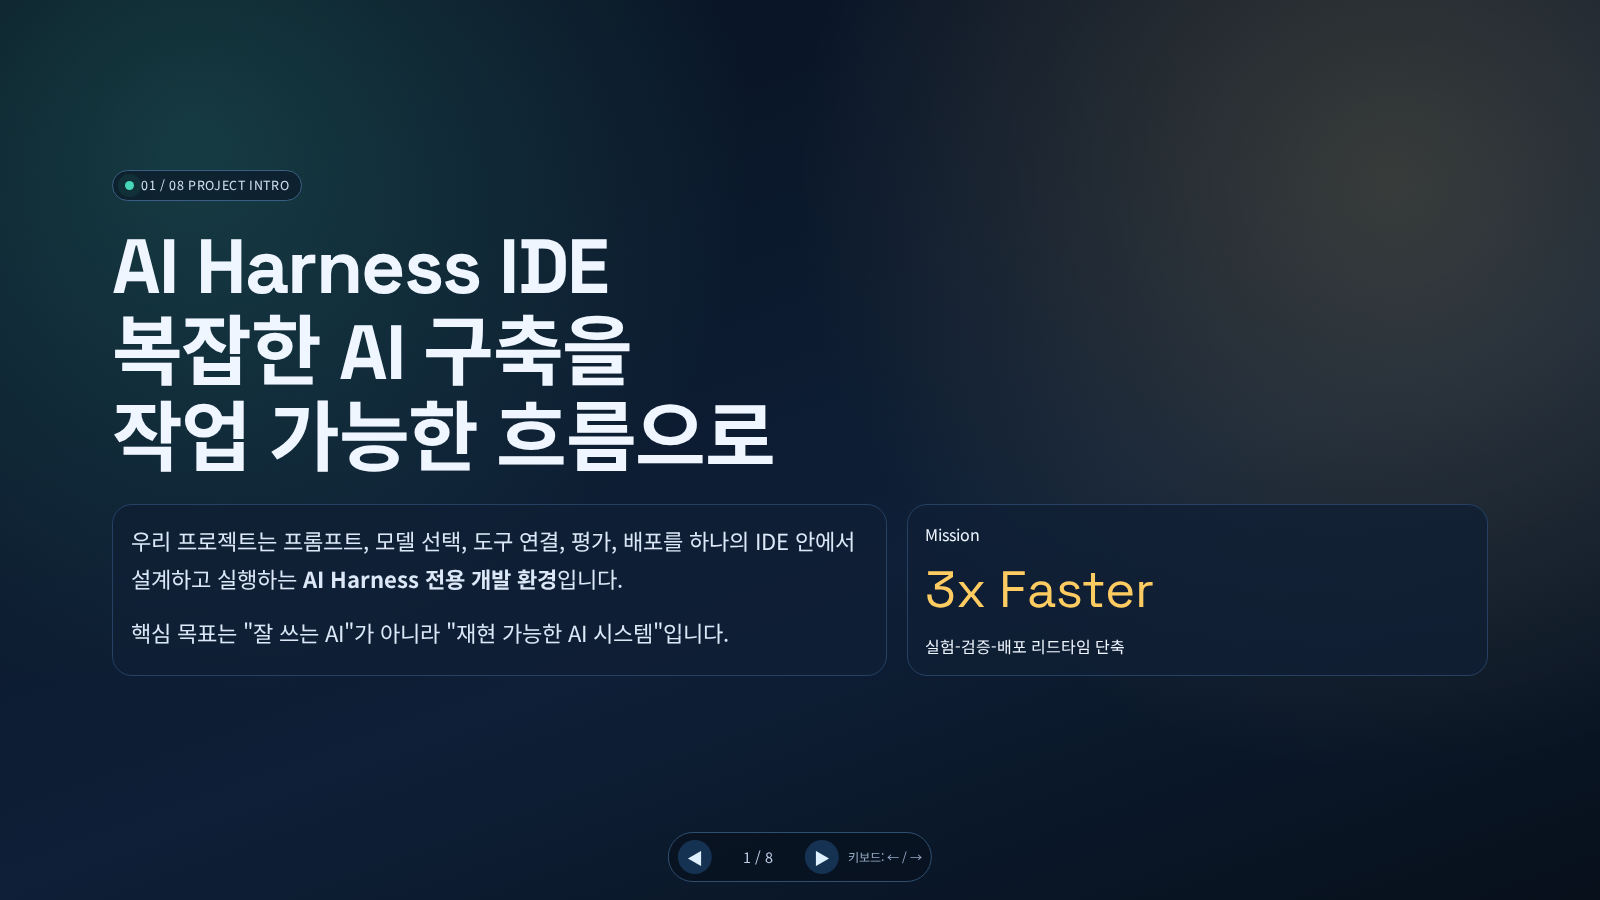
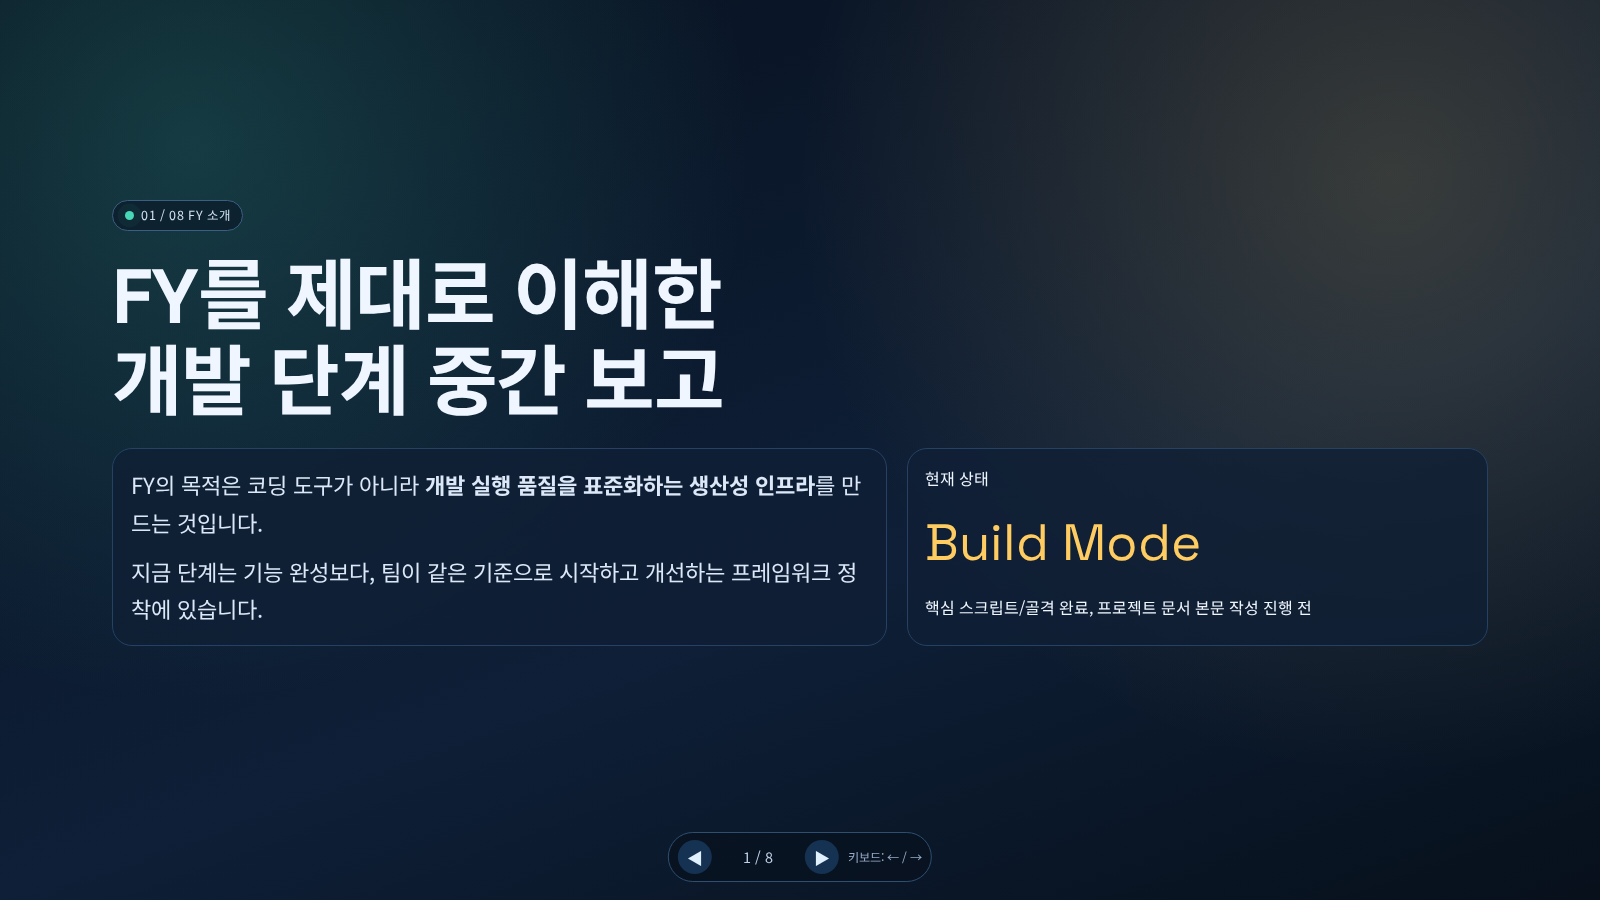
Update ai-harness IDE intro slide and generated index

Changed region(s): [[0.0625, 0.1867, 0.5312, 0.7156], [0.5625, 0.5289, 0.8125, 0.6844], [0.5625, 0.7156, 0.7188, 0.7467]]

diff --git a/public/slides/ai-harness-ide-intro.html b/public/slides/ai-harness-ide-intro.html
@@ -3,7 +3,7 @@
   <head>
     <meta charset="UTF-8" />
     <meta name="viewport" content="width=device-width, initial-scale=1.0" />
-    <title>AI Harness IDE 프로젝트 소개</title>
+    <title>FY 개발 단계 중간 보고</title>
     <link rel="preconnect" href="https://fonts.googleapis.com" />
     <link rel="preconnect" href="https://fonts.gstatic.com" crossorigin />
     <link
@@ -291,156 +291,155 @@
     <main id="deck" class="deck">
       <section class="slide">
         <div class="meta">
-          <span class="tag"><span class="pulse"></span> 01 / 08 PROJECT INTRO</span>
+          <span class="tag"><span class="pulse"></span> 01 / 08 FY 소개</span>
         </div>
-        <h1>AI Harness IDE<br />복잡한 AI 구축을<br />작업 가능한 흐름으로</h1>
+        <h1>FY를 제대로 이해한<br />개발 단계 중간 보고</h1>
         <div class="hero">
           <div class="hero-box">
             <p class="lead">
-              우리 프로젝트는 프롬프트, 모델 선택, 도구 연결, 평가, 배포를 하나의 IDE 안에서
-              설계하고 실행하는 <strong>AI Harness 전용 개발 환경</strong>입니다.
+              FY의 목적은 코딩 도구가 아니라 <strong>개발 실행 품질을 표준화하는 생산성 인프라</strong>를 만드는 것입니다.
             </p>
-            <p class="lead">핵심 목표는 "잘 쓰는 AI"가 아니라 "재현 가능한 AI 시스템"입니다.</p>
+            <p class="lead">지금 단계는 기능 완성보다, 팀이 같은 기준으로 시작하고 개선하는 프레임워크 정착에 있습니다.</p>
           </div>
           <div class="hero-box">
-            <p>Mission</p>
-            <p class="kpi">3x Faster</p>
-            <p>실험-검증-배포 리드타임 단축</p>
+            <p>현재 상태</p>
+            <p class="kpi">Build Mode</p>
+            <p>핵심 스크립트/골격 완료, 프로젝트 문서 본문 작성 진행 전</p>
           </div>
         </div>
       </section>
 
       <section class="slide">
         <div class="meta">
-          <span class="tag">02 / 08 PROBLEM</span>
+          <span class="tag">02 / 08 핵심 목적</span>
         </div>
-        <h2>왜 지금 필요한가</h2>
+        <h2>FY 핵심 목적 4가지</h2>
         <ul>
-          <li>AI 앱 개발은 코드, 프롬프트, 벡터DB, 에이전트 로직이 분산되어 관리됩니다.</li>
-          <li>성능 저하가 생겨도 어떤 변경이 원인인지 추적하기 어렵습니다.</li>
-          <li>팀 협업 시 실험 기록이 남지 않아 동일한 실패를 반복합니다.</li>
-          <li>결과적으로 PoC는 빠르지만 프로덕션 전환은 느립니다.</li>
+          <li><strong>실행 표준화:</strong> `setup`, `doctor`, `launch/exec`로 시작/점검/실행 절차 통일</li>
+          <li><strong>문서 기반 개발:</strong> 코드보다 문서 컨텍스트를 먼저 로딩해 의사결정 일관성 확보</li>
+          <li><strong>스킬 온디맨드 확장:</strong> 필요한 스킬만 설치해 프로젝트 맞춤형으로 확장</li>
+          <li><strong>병렬 수정 안정성:</strong> 동시 수정 시 충돌 감지/순서 제어/검증 체계 확보</li>
         </ul>
       </section>
 
       <section class="slide">
         <div class="meta">
-          <span class="tag">03 / 08 SOLUTION</span>
+          <span class="tag">03 / 08 현재 단계</span>
         </div>
-        <h2>AI Harness IDE가 제공하는 것</h2>
+        <h2>지금 어디까지 왔는가</h2>
         <div class="cards">
           <article class="card">
-            <h3>Visual Harness Builder</h3>
-            <p>모델, 툴, 메모리, 평가 노드를 연결해 실행 흐름을 시각적으로 구성</p>
+            <h3>개발 인프라 단계</h3>
+            <p>FY는 기능 개발보다 생산성 기반을 먼저 깔고 있는 단계</p>
           </article>
           <article class="card">
-            <h3>Prompt + Code Co-Edit</h3>
-            <p>프롬프트와 앱 코드를 같은 워크스페이스에서 버전 관리</p>
+            <h3>핵심 스크립트 준비</h3>
+            <p>`fy` 실행 진입점과 점검 체계가 이미 구성됨</p>
           </article>
           <article class="card">
-            <h3>Eval-first Workflow</h3>
-            <p>테스트셋/메트릭 기반으로 품질 변화 자동 리포트</p>
+            <h3>문서 본문 미작성</h3>
+            <p>`docs-ex`는 대부분 0바이트로, 컨텍스트 확정이 다음 과제</p>
           </article>
         </div>
       </section>
 
       <section class="slide">
         <div class="meta">
-          <span class="tag">04 / 08 CORE FEATURES</span>
+          <span class="tag">04 / 08 구축 기반</span>
         </div>
-        <h2>핵심 기능</h2>
+        <h2>지금까지 세팅된 기반</h2>
         <div class="flow">
           <article class="card">
-            <h3>1. 템플릿 시작</h3>
-            <p>RAG, Agent, Chatbot 템플릿으로 빠른 시작</p>
+            <h3>1. setup</h3>
+            <p>상태 디렉토리와 기본 ignore 초기화</p>
           </article>
           <article class="card">
-            <h3>2. 실시간 트레이스</h3>
-            <p>토큰 사용량, 지연 시간, 에러 포인트를 단계별 추적</p>
+            <h3>2. doctor</h3>
+            <p>필수 파일, 로그인, 스모크 테스트 점검</p>
           </article>
           <article class="card">
-            <h3>3. 데이터셋 버전</h3>
-            <p>실험에 사용한 문서/질문셋을 자동 스냅샷</p>
+            <h3>3. launch / exec</h3>
+            <p>컨텍스트 주입형 실행 흐름 확보</p>
           </article>
           <article class="card">
-            <h3>4. 팀 리뷰</h3>
-            <p>변경점 diff와 코멘트 기반 협업</p>
+            <h3>4. 컨텍스트 병합</h3>
+            <p>global/core + standards + project 문서 합쳐 전달</p>
           </article>
           <article class="card">
-            <h3>5. 원클릭 배포</h3>
-            <p>검증 통과 Harness만 스테이징/프로덕션 배포</p>
+            <h3>5. 운영 원칙</h3>
+            <p>작은 변경, 문서 동기화, 오버라이드 우선 규칙 반영</p>
           </article>
         </div>
       </section>
 
       <section class="slide">
         <div class="meta">
-          <span class="tag">05 / 08 ARCHITECTURE</span>
+          <span class="tag">05 / 08 강점</span>
         </div>
-        <h2>기술 아키텍처</h2>
+        <h2>현재 구조의 핵심 강점</h2>
         <div class="cards">
           <article class="card">
-            <h3>Editor Layer</h3>
-            <p>프로젝트 구조/노드 그래프/프롬프트 편집기</p>
+            <h3>시작 품질 균등화</h3>
+            <p>개인 숙련도 편차와 무관하게 개발 시작 품질을 일정하게 유지</p>
           </article>
           <article class="card">
-            <h3>Runtime Layer</h3>
-            <p>모델 라우팅, Tool Calling, Guardrail, 캐시 처리</p>
+            <h3>문서-코드 정합성</h3>
+            <p>개인 습관이 아니라 프로세스로 정합성을 관리할 수 있음</p>
           </article>
           <article class="card">
-            <h3>Observability Layer</h3>
-            <p>로그, 평가, 비용 분석, 실험 리플레이</p>
+            <h3>전략 명확성</h3>
+            <p>Build Mode(초기 완성)와 Refine Mode(병렬 개선) 역할이 분명함</p>
           </article>
         </div>
       </section>
 
       <section class="slide">
         <div class="meta">
-          <span class="tag">06 / 08 TARGET USERS</span>
+          <span class="tag">06 / 08 핵심 갭</span>
         </div>
-        <h2>누가 가장 크게 이득을 보는가</h2>
+        <h2>현재 갭 (중요)</h2>
         <ul>
-          <li>사내 AI 기능을 빠르게 제품에 붙여야 하는 스타트업 개발팀</li>
-          <li>PoC 이후 품질 관리와 재현성 문제를 겪는 AI 엔지니어 조직</li>
-          <li>비개발 직군과 함께 프롬프트/실험 협업이 필요한 PM 조직</li>
+          <li><strong>`project-context.md` 비어 있음:</strong> Goal/Scope/Constraints 합의 부재</li>
+          <li><strong>`project-overrides.md` 비어 있음:</strong> 테스트/배포/보안 예외 기준 미정</li>
+          <li><strong>`docs-ex` 대부분 비어 있음:</strong> 팀 공유, 온보딩, 발표 근거 문서 부족</li>
         </ul>
       </section>
 
       <section class="slide">
         <div class="meta">
-          <span class="tag">07 / 08 ROADMAP</span>
+          <span class="tag">07 / 08 우선순위</span>
         </div>
-        <h2>실행 로드맵</h2>
+        <h2>다음 단계 실행 우선순위</h2>
         <div class="timeline">
           <article class="card">
-            <h3>Q2</h3>
-            <p>MVP 완성: Builder + Trace + 기본 Eval</p>
+            <h3>1순위</h3>
+            <p>`project-context` 확정: Goal, Scope, Stakeholders, Constraints</p>
           </article>
           <article class="card">
-            <h3>Q3</h3>
-            <p>팀 협업 기능: 리뷰/권한/변경 이력 강화</p>
+            <h3>2순위</h3>
+            <p>`project-overrides` 확정: 테스트, 배포, 모니터링, SLA, 보안</p>
           </article>
           <article class="card">
-            <h3>Q4</h3>
-            <p>배포 자동화 및 엔터프라이즈 보안 옵션</p>
+            <h3>3순위</h3>
+            <p>`docs-ex` 핵심 문서 작성: README, ARCHITECTURE, PLANS</p>
           </article>
           <article class="card">
-            <h3>Q1 Next</h3>
-            <p>마켓플레이스: Harness 템플릿 공유 생태계</p>
+            <h3>4순위</h3>
+            <p>Refine Mode 충돌관리 설계를 실제 구현 항목으로 분해</p>
           </article>
         </div>
       </section>
 
       <section class="slide">
         <div class="meta">
-          <span class="tag">08 / 08 CLOSING</span>
+          <span class="tag">08 / 08 마무리</span>
         </div>
-        <h2>AI 개발의 병목은 모델이 아니라 워크플로우입니다</h2>
+        <h2>FY의 본질은 도구가 아니라 팀 실행 체계입니다</h2>
         <p class="lead">
-          AI Harness IDE는 실험을 자산으로 만들고, 품질을 반복 가능하게 만들며,
-          팀이 더 빠르게 프로덕션에 도달하도록 돕습니다.
+          지금은 기능 데모보다 기준 정착이 중요한 시점입니다.
+          기준 문서만 채워지면, Build Mode에서 Refine Mode로 안정적으로 넘어갈 수 있습니다.
         </p>
-        <p class="lead"><strong>“Build once, evaluate always, deploy confidently.”</strong></p>
+        <p class="lead"><strong>"시작을 표준화하고, 문서로 정렬하고, 병렬 개선을 안전하게 만든다."</strong></p>
       </section>
     </main>
 

diff --git a/src/data/slides.generated.ts b/src/data/slides.generated.ts
@@ -15,7 +15,7 @@ export const generatedPresentations: PresentationMeta[] = [
     id: "ai-harness-ide-intro",
     title: "Ai Harness Ide Intro",
     path: "/slides/ai-harness-ide-intro.html",
-    updatedAt: "2026-04-20",
+    updatedAt: "2026-04-29",
     thumbnail: "/slides/.thumbnails/ai-harness-ide-intro.png",
   },
   {
